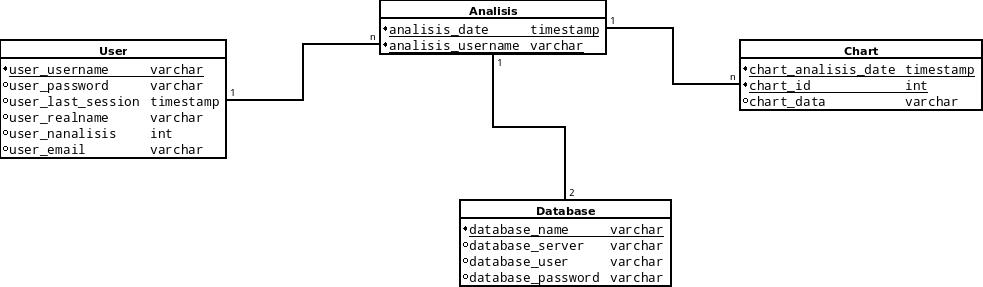
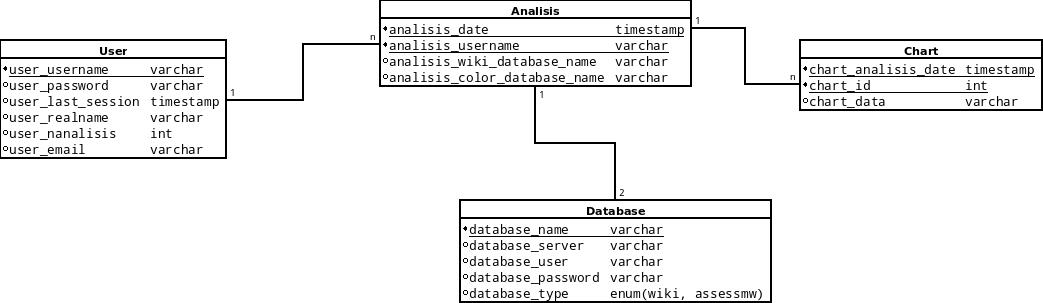
Modifico esquema de la base de datos principal. Añado función de consulta propia de bajo nivel en el modelo de gestion de las bases de datos.
git-svn-id: https://forja.rediris.es/svn/cleverfigures@12 a053ac88-d4ad-4f58-a43f-47ca826c7790

diff --git a/application/models/databases_model.php b/application/models/databases_model.php
@@ -16,6 +16,9 @@ class Databases_model extends CI_Model{
    	   	/*[1]*/
    	   	/*[2]*/
    	}
+   	
+   	//low level functions
+   	function get_query($database, $query){}
    
    	// user functions
    	function new_user($username, $password, $realname, $email){}
@@ -29,9 +32,6 @@ class Databases_model extends CI_Model{
    	//analisis functions
    	function save_analisis(){}
    	function view_analisis($id){}
-   	
-   	//database configuration functions
-   	function set_color_database_type($database_type){}
    
    	/*[3]*/
 }
